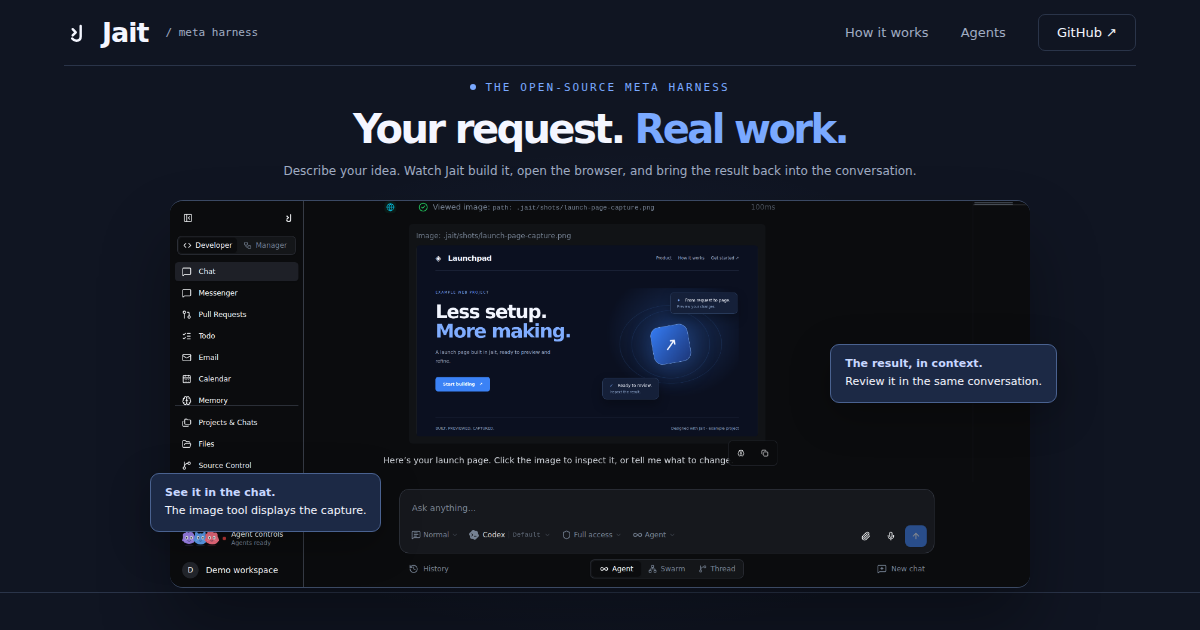
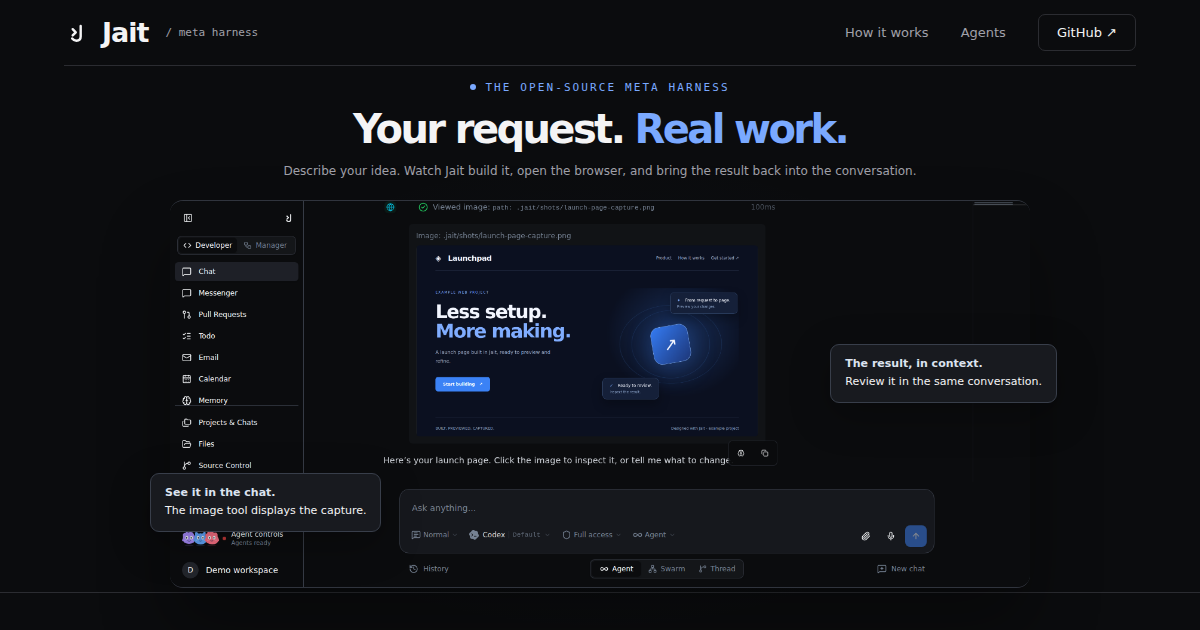
Use charcoal palette and add playful agent cameos

diff --git a/assets/agent-cameos.js b/assets/agent-cameos.js
@@ -1,0 +1,152 @@
+(() => {
+  'use strict';
+  // Avatar geometry and colors match Jait's AgentAvatar component.
+  const colors = ['#a78bfa', '#60a5fa', '#fb7185', '#2dd4bf', '#fbbf24', '#86efac', '#fb923c', '#e879f9', '#38bdf8', '#c4b5fd'];
+  const bodies = [
+    'M18 42 Q12 20 32 20 Q35 8 45 19 Q68 9 76 31 Q89 51 73 72 Q49 85 26 72 Q13 63 18 42Z',
+    'M22 30 Q20 12 32 17 L41 25 Q50 21 59 25 L69 15 Q81 12 76 33 Q90 68 69 77 Q48 86 28 75 Q10 64 22 30Z',
+    'M19 43 Q10 27 26 23 Q26 9 40 17 Q51 6 61 20 Q83 15 80 39 Q94 58 76 75 Q51 87 27 74 Q9 62 19 43Z',
+    'M17 51 Q15 28 33 24 Q45 10 59 23 Q84 23 82 51 Q82 80 50 81 Q18 81 17 51Z',
+    'M22 35 L25 15 Q37 15 40 28 Q49 24 58 28 Q62 13 74 16 L77 38 Q86 66 68 77 Q47 86 29 75 Q14 61 22 35Z',
+  ];
+  const motion = matchMedia('(prefers-reduced-motion: reduce)');
+  const layer = document.createElement('div');
+  layer.className = 'cameo-layer'; layer.setAttribute('aria-hidden', 'true'); layer.setAttribute('inert', '');
+  document.body.append(layer);
+  const spots = [
+    { selector: '.github-link', size: 42, align: .48 },
+    { selector: '[data-step="3"]', size: 55, side: true },
+    { selector: '.providers', size: 56, align: .82 },
+    { selector: '.workspace-section', size: 60, align: .78 },
+    { selector: '.install', size: 54, align: .80 },
+    { selector: '.footer', size: 48, align: .72 },
+  ];
+  const random = (min, max) => min + Math.random() * (max - min);
+  let active = null, timer = null, lastSpot = null, lastColor = -1, first = true;
+  let pointer = null, dirty = false;
+  let paused = false;
+  try { paused = localStorage.getItem('jait-cameos-paused') === 'true'; } catch {}
+  const toggle = document.createElement('button'); toggle.className = 'cameo-toggle'; toggle.type = 'button';
+  function updateToggle() { toggle.hidden = motion.matches; toggle.textContent = paused ? 'Resume cameos' : 'Pause cameos'; toggle.setAttribute('aria-label', paused ? 'Resume decorative agent animations' : 'Pause decorative agent animations'); }
+  document.querySelector('.footer-links').append(toggle); updateToggle();
+  const unavailable = () => paused || motion.matches || document.hidden || document.getElementById('image-dialog')?.open;
+  function sprite(index) {
+    const color = colors[index], dx = index % 2 ? 1 : -1;
+    return `<svg class="agent-creature" viewBox="0 0 100 100" aria-hidden="true"><ellipse cx="50" cy="87" rx="24" ry="4" fill="${color}" opacity=".14"/><g class="agent-creature-body"><path d="${bodies[index % bodies.length]}" fill="${color}"/><path d="M25 57 Q18 51 17 60 M75 57 Q83 51 84 60" fill="none" stroke="${color}" stroke-width="8" stroke-linecap="round"/><ellipse cx="29" cy="59" rx="5" ry="3" fill="#fff" opacity=".25"/><ellipse cx="71" cy="59" rx="5" ry="3" fill="#fff" opacity=".25"/><g class="agent-creature-eyes"><ellipse cx="38" cy="46" rx="7" ry="9" fill="#fff"/><ellipse cx="62" cy="46" rx="7" ry="9" fill="#fff"/><g class="agent-creature-pupils"><ellipse cx="${38 + dx}" cy="47" rx="3" ry="4.5" fill="#243047"/><ellipse cx="${62 + dx}" cy="47" rx="3" ry="4.5" fill="#243047"/></g></g><path d="${index % 3 === 0 ? 'M43 62 Q50 69 57 62' : index % 3 === 1 ? 'M46 63 Q50 66 54 63' : 'M44 62 Q50 66 56 62'}" fill="none" stroke="#243047" stroke-width="2.5" stroke-linecap="round"/>${index >= 5 ? '<path d="M44 25 Q49 17 55 25" fill="none" stroke="#fff" stroke-width="3" stroke-linecap="round" opacity=".5"/>' : ''}</g></svg>`;
+  }
+  function measure(spot) {
+    const anchor = document.querySelector(spot.selector);
+    if (!anchor) return null;
+    const rect = anchor.getBoundingClientRect();
+    if (!rect.width || rect.top < 12 || rect.top > innerHeight - 35 || rect.bottom < 0) return null;
+    const size = innerWidth <= 640 ? Math.min(spot.size, 46) : spot.size;
+    if (spot.side) {
+      if (rect.right + size > innerWidth - 12) return null;
+      return { spot, anchor, size, width: size, height: size, x: rect.right, y: rect.top + rect.height / 2 - size / 2 };
+    }
+    const height = Math.min(size, rect.top - 3);
+    const x = Math.max(8, Math.min(innerWidth - size - 8, rect.left + rect.width * spot.align - size / 2));
+    return { spot, anchor, size, width: size, height, x, y: rect.top - height };
+  }
+  function position(item, measured) {
+    item.node.style.width = measured.width + 'px'; item.node.style.height = measured.height + 'px';
+    item.node.style.left = measured.x + scrollX + 'px'; item.node.style.top = measured.y + scrollY + 'px';
+    item.geometry = measured;
+  }
+  function schedule(delay = random(6500, 14500)) {
+    clearTimeout(timer); timer = null;
+    if (!unavailable()) timer = setTimeout(appear, delay);
+  }
+  function dismiss(reschedule = true) {
+    if (active) {
+      clearTimeout(active.blinkTimer); clearTimeout(active.reactionTimer); cancelAnimationFrame(active.raf);
+      active.animations.forEach(animation => animation.cancel()); active.node.remove(); active = null;
+    }
+    if (reschedule) schedule();
+  }
+  function blink(item, double = false) {
+    if (active !== item) return;
+    const animation = item.eyes.animate([
+      { transform: 'scaleY(1)', offset: 0 }, { transform: 'scaleY(.08)', offset: .42 },
+      { transform: 'scaleY(.08)', offset: .55 }, { transform: 'scaleY(1)', offset: 1 },
+    ], { duration: double ? 170 : 220, easing: 'ease-in-out' });
+    item.animations.push(animation);
+  }
+  function nextBlink(item) {
+    item.blinkTimer = setTimeout(() => {
+      if (active !== item) return;
+      blink(item); nextBlink(item);
+    }, random(1800, 3400));
+  }
+  function watch(item) {
+    if (active !== item) return;
+    if (unavailable()) { dismiss(); return; }
+    if (dirty) {
+      const current = measure(item.spot); dirty = false;
+      if (!current) { dismiss(); return; }
+      // A large layout change gets a fresh entrance rather than a jumping face.
+      if (Math.abs(current.height - item.geometry.height) > 2) { dismiss(); return; }
+      position(item, current);
+    }
+    const now = performance.now();
+    if (now > item.nextLook) {
+      item.look = { x: random(-2.3, 2.3), y: random(-1, 1) }; item.nextLook = now + random(900, 1900);
+    }
+    let look = item.look;
+    if (pointer && now - pointer.time < 2500) {
+      const { x, y, size } = item.geometry;
+      const dx = pointer.x - (x + size / 2), dy = pointer.y - (y + item.geometry.height / 2);
+      look = { x: Math.max(-2.4, Math.min(2.4, dx / 65)), y: Math.max(-1.4, Math.min(1.4, dy / 100)) };
+      if (!item.caught && Math.hypot(dx, dy) < size * 1.6) {
+        item.caught = true; item.node.classList.add('is-caught'); blink(item, true);
+        item.reactionTimer = setTimeout(() => { if (active === item) { item.node.classList.remove('is-caught'); blink(item); } }, 1500);
+      }
+    }
+    item.gaze.x += (look.x - item.gaze.x) * .09; item.gaze.y += (look.y - item.gaze.y) * .09;
+    item.pupils.setAttribute('transform', `translate(${item.gaze.x.toFixed(2)} ${item.gaze.y.toFixed(2)})`);
+    item.raf = requestAnimationFrame(() => watch(item));
+  }
+  function appear() {
+    if (unavailable()) { schedule(); return; }
+    let choices = spots.map(measure).filter(Boolean);
+    if (choices.length > 1) choices = choices.filter(candidate => candidate.spot.selector !== lastSpot);
+    if (!choices.length) { schedule(2500); return; }
+    const geometry = first && choices.some(candidate => candidate.spot.selector === '.github-link')
+      ? choices.find(candidate => candidate.spot.selector === '.github-link') : choices[Math.floor(random(0, choices.length))];
+    first = false; lastSpot = geometry.spot.selector;
+    let color = Math.floor(random(0, colors.length)); if (color === lastColor) color = (color + 1) % colors.length; lastColor = color;
+    const node = document.createElement('span'); node.className = 'agent-cameo' + (geometry.spot.side ? ' is-side' : '');
+    node.dataset.spot = geometry.spot.selector; node.dataset.agent = String(color); node.setAttribute('aria-hidden', 'true');
+    node.innerHTML = `<span class="cameo-reaction"><span class="cameo-pose">${sprite(color)}</span></span>`;
+    layer.append(node);
+    const item = { node, spot: geometry.spot, geometry, animations: [], eyes: node.querySelector('.agent-creature-eyes'), pupils: node.querySelector('.agent-creature-pupils'), gaze: { x: 0, y: 0 }, look: { x: -1.5, y: 0 }, nextLook: performance.now() + 1200 };
+    active = item; position(item, geometry);
+    const side = geometry.spot.side, size = geometry.size, height = geometry.height;
+    const pose = value => side ? `translateX(${-value}px)` : `translateY(${value}px)`;
+    const hidden = side ? size + 8 : height + 8;
+    const shallow = side ? size * .55 : height - size * .55;
+    const peek = side ? size * .25 : height - size * .72;
+    const duck = side ? size * .82 : height - size * .28;
+    const animation = node.querySelector('.cameo-pose').animate([
+      { transform: pose(hidden), offset: 0 }, { transform: pose(shallow), offset: .11 },
+      { transform: pose(shallow), offset: .23 }, { transform: pose(duck), offset: .30 },
+      { transform: pose(peek), offset: .39 }, { transform: pose(peek), offset: .69 },
+      { transform: pose(shallow), offset: .78 }, { transform: pose(shallow), offset: .87 },
+      { transform: pose(hidden), offset: 1 },
+    ], { duration: random(7200, 9000), easing: 'cubic-bezier(.35,0,.25,1)', fill: 'both' });
+    item.animations.push(animation);
+    item.animations.push(node.querySelector('.agent-creature-body').animate([
+      { transform: 'rotate(-2deg) translateY(0)' }, { transform: 'rotate(2deg) translateY(-1px)' }, { transform: 'rotate(-2deg) translateY(0)' },
+    ], { duration: 2800, iterations: Infinity, easing: 'ease-in-out' }));
+    animation.onfinish = () => { if (active === item) dismiss(); };
+    nextBlink(item); item.raf = requestAnimationFrame(() => watch(item));
+  }
+  window.addEventListener('pointermove', event => { if (event.pointerType === 'mouse') pointer = { x: event.clientX, y: event.clientY, time: performance.now() }; }, { passive: true });
+  window.addEventListener('scroll', () => { dirty = true; }, { passive: true });
+  window.addEventListener('resize', () => { dirty = true; });
+  document.addEventListener('visibilitychange', () => { clearTimeout(timer); dismiss(false); if (!unavailable()) schedule(random(2000, 4000)); });
+  toggle.addEventListener('click', () => { paused = !paused; try { localStorage.setItem('jait-cameos-paused', String(paused)); } catch {} clearTimeout(timer); dismiss(false); updateToggle(); if (!unavailable()) schedule(random(1200, 2400)); });
+  document.getElementById('image-dialog').addEventListener('close', () => { if (!active && !unavailable()) schedule(random(1800, 3200)); });
+  motion.addEventListener('change', () => { updateToggle(); clearTimeout(timer); dismiss(false); if (!unavailable()) schedule(); });
+  schedule(random(1600, 2800));
+})();

diff --git a/assets/site.css b/assets/site.css
@@ -1,4 +1,4 @@
-:root{color-scheme:dark;--bg:#101522;--fg:#f4f6ff;--muted:#a1adc4;--accent:#7aa9ff;--line:#2a3449;--panel:#1c2945;font-family:Inter,ui-sans-serif,system-ui,-apple-system,BlinkMacSystemFont,"Segoe UI",sans-serif;font-synthesis:none;-webkit-font-smoothing:antialiased}
+:root{color-scheme:dark;--bg:#0b0c0e;--fg:#f4f4f5;--muted:#a1a1aa;--accent:#7aa9ff;--line:#2b2c31;--panel:#181a1f;font-family:Inter,ui-sans-serif,system-ui,-apple-system,BlinkMacSystemFont,"Segoe UI",sans-serif;font-synthesis:none;-webkit-font-smoothing:antialiased}
 *{box-sizing:border-box}html{scroll-behavior:smooth;scroll-padding-top:28px}body{margin:0;background:var(--bg);color:var(--fg)}button,a{-webkit-tap-highlight-color:transparent}button{font:inherit;color:inherit}button,a{touch-action:manipulation}a{color:inherit;text-decoration:none}button{cursor:pointer}button:disabled{cursor:default}p{line-height:1.75;text-wrap:pretty}h1,h2,h3,p{margin:0}h1,h2,h3{text-wrap:balance}button:focus-visible,a:focus-visible{outline:2px solid var(--accent);outline-offset:5px}.content{width:calc(100% - 128px);max-width:1152px;margin-inline:auto}.accent{color:var(--accent)}.skip-link{position:fixed;top:8px;left:8px;z-index:20;transform:translateY(-200%);padding:12px;background:var(--fg);color:var(--bg);border-radius:6px}.skip-link:focus{transform:none}.sr-only{position:absolute;width:1px;height:1px;padding:0;margin:-1px;overflow:hidden;clip:rect(0,0,0,0);white-space:nowrap;border:0}
 .nav{height:90px;display:flex;align-items:center;justify-content:space-between;border-bottom:1px solid var(--line);gap:24px}.brand{display:flex;align-items:center;gap:10px;font-size:27px;font-weight:650;letter-spacing:-1px;flex-shrink:0}.brand svg{width:28px;height:28px}.brand-note{font:11px ui-monospace,monospace;letter-spacing:0;color:var(--muted);margin-left:7px}.nav-links{display:flex;align-items:center;gap:32px;font-size:13px;color:var(--muted)}.nav-links a:hover,.footer a:hover,.text-link:hover{color:var(--accent)}.github-link{border:1px solid var(--line);padding:10px 18px;border-radius:7px;color:var(--fg)}
 .hero{padding-top:25px}.section-intro{text-align:center;padding-inline:24px;margin-inline:auto;max-width:1140px}.eyebrow{font:11px/1.5 ui-monospace,monospace;letter-spacing:2.1px;color:var(--accent);text-transform:uppercase}.eyebrow:before{content:"";width:6px;height:6px;background:currentColor;display:inline-block;margin:0 9px 1px 0;border-radius:50%}h1,.agents-section h2{font-size:50px;letter-spacing:-2.6px;line-height:1.12;font-weight:600;margin:15px 0 14px}h1>span,.agents-section h2>span{display:inline-block;white-space:nowrap}.description{font-size:14px;line-height:1.8;color:var(--muted);max-width:800px;margin-inline:auto}.tabs{display:flex;gap:10px;justify-content:center;flex-wrap:wrap;margin:20px auto 0;padding:0 20px}.tab{border:1px solid #344056;background:#172034;color:#a4b1cb;padding:9px 17px;border-radius:25px;font-size:11px;line-height:1.4;min-height:36px;transition:background .2s,border-color .2s,color .2s}.tab .step-number{font-family:ui-monospace,monospace;margin-right:9px;font-size:10px}.tab.active{border-color:var(--accent);color:#ecf1ff;background:#263455}.tab:hover{border-color:var(--accent)}.agent-tabs .tab{display:flex;gap:12px;align-items:center;justify-content:center}
@@ -10,3 +10,13 @@
 @media(max-width:900px){.brand-note{display:none}.nav-links{gap:22px}.section-intro .description{max-width:620px}.providers{justify-content:center;gap:18px}.providers ul{gap:20px}.agent-details{gap:24px}.workspace-section{gap:32px;grid-template-columns:1fr}.workspace-section h2{font-size:35px}.workspace-copy .lead{font-size:18px}.start-section{grid-template-columns:1fr;gap:32px}.start-section .description{max-width:none}}
 @media(max-width:640px){.content{width:calc(100% - 40px)}.nav{height:76px;gap:12px}.brand{font-size:25px;gap:6px}.brand svg{width:25px;height:25px}.nav-links{gap:17px;font-size:12px}.nav-links a:first-child{display:none}.github-link{padding:8px 12px}.hero{padding-top:34px}.section-intro{padding-inline:20px}.eyebrow{font-size:9px;letter-spacing:1.6px}h1{font-size:clamp(36px,10.4vw,50px);letter-spacing:-1.8px;margin:17px 0 16px;line-height:1.1}h1>span,.agents-section h2>span{display:block}.description{font-size:14px;line-height:1.8;max-width:370px}.tabs{display:grid;grid-template-columns:1fr 1fr;gap:8px;padding:0;width:calc(100% - 40px);margin-top:23px}.tab{min-height:44px;padding:10px 6px;font-size:11px;text-align:center;border-radius:7px}.tab .step-number{margin-right:5px;font-size:9px}.demo{width:calc(100% - 40px);margin-top:18px;max-width:390px}.media-window{aspect-ratio:390/720;border-radius:11px;box-shadow:0 18px 45px #0004}.agent-demo .media-window{aspect-ratio:390/650}.demo.in-view.is-playing .media-window{animation:none}.demo-pointer{display:none}.annotations{display:grid;grid-template-columns:1fr;gap:8px;margin-top:12px}.annotation,.agent-demo .annotation-left{position:static;max-width:none;box-shadow:none;padding:12px 14px;border-color:#354b70;font-size:12px;line-height:1.65;animation:none!important;transform:none!important}.annotation strong{font-size:12px;line-height:1.5;margin-bottom:4px}.agent-demo .annotation-left{display:flex}.agent-avatar{width:27px;height:27px;margin-bottom:0}.media-meta{font-size:9px;gap:8px;margin-top:9px;letter-spacing:0;align-items:center}.playback{font-size:10px;padding:8px 0 8px 6px;min-height:44px}.providers{margin-top:31px;padding:25px 0;gap:18px;flex-direction:column}.providers ul{display:grid;grid-template-columns:auto auto;gap:16px 26px;font-size:12px;text-align:center}.small-label{font-size:9px}.agents-section{padding-top:55px}.agents-section h2{font-size:clamp(32px,9vw,46px);letter-spacing:-1.4px;margin:17px 0 16px;line-height:1.13}.agent-tabs{max-width:390px}.agent-details{grid-template-columns:1fr;gap:25px;padding-top:35px;padding-bottom:55px}.agent-details>div{padding-left:15px;border-left:1px solid #4a6290}.agent-details h3{font-size:16px;margin-bottom:6px}.agent-details p{max-width:360px;font-size:14px}.workspace-section{grid-template-columns:1fr;padding:55px 0;gap:25px}.workspace-section h2{font-size:clamp(24px,7vw,30px);letter-spacing:-1px;margin-top:16px}.workspace-copy p{font-size:14px}.workspace-copy .lead{font-size:18px;max-width:380px}.start-section{padding:55px 0;gap:28px}.start-section h2{font-size:31px;letter-spacing:-1.2px;max-width:340px;margin-top:16px}.start-section .description{font-size:14px}.install-header{padding:12px 14px}.install pre{font-size:clamp(10px,3.05vw,13px);padding:18px 14px;line-height:2.3}.install>p{padding:0 14px 15px;font-size:11px}.footer{display:block;padding:26px 0 32px}.footer>div:first-child{gap:12px}.footer-links{margin-top:22px;gap:24px}.dialog-toolbar{padding:12px;font-size:11px}.image-dialog{max-width:calc(100vw - 16px);max-height:calc(100dvh - 16px)}.dialog-image-wrap img{width:auto;max-width:none;min-width:100%;max-height:calc(100dvh - 150px)}.image-dialog>p{font-size:9px;padding-inline:12px}}
 @media(prefers-reduced-motion:reduce){html{scroll-behavior:auto}.demo-pointer{display:none}*,*:before,*:after{animation:none!important;transition:none!important}}
+
+/* Neutral surfaces keep the blue accent close to the app. */
+.tab{background:#16171b;border-color:#303238;color:#a1a1aa}.tab.active{background:#19273e;border-color:var(--accent);color:#edf3ff}.annotation{background:var(--panel);border-color:#383e4a}.annotation strong{color:#dce3ef}.media-window{background:#0a0c0e;border-color:#30343d}.demo:before{opacity:.35}.install{background:#101114}.text-link{border-color:#3d485a}.image-dialog{background:#0b0c0e;border-color:#30343d}.dialog-image-wrap{background:#0b0c0e}.agent-details>div{border-color:#3d485a}
+/* Decorative pockets end exactly at their button or section edge. */
+.cameo-layer{position:absolute;inset:0 0 auto;height:0;z-index:5;pointer-events:none;user-select:none}.agent-cameo{position:absolute;overflow:hidden;pointer-events:none;contain:layout paint;opacity:1}.cameo-reaction,.cameo-pose{display:block;width:100%;height:100%;pointer-events:none}.cameo-reaction{transition:transform .22s cubic-bezier(.3,0,.7,1)}.agent-cameo.is-caught .cameo-reaction{transform:translateY(24px)}.agent-cameo.is-side.is-caught .cameo-reaction{transform:translateX(-24px)}.agent-cameo svg{display:block;width:100%;height:auto;overflow:visible}.agent-cameo .agent-creature-body{transform-origin:50px 80px}.agent-cameo .agent-creature-eyes{transform-box:fill-box;transform-origin:center}.agent-cameo .agent-creature-pupils{will-change:transform}
+@media(prefers-reduced-motion:reduce){.cameo-layer{display:none}.cameo-reaction{transition:none}}
+
+.cameo-toggle{border:0;background:none;padding:0;color:var(--muted);font:inherit;text-align:left;white-space:nowrap}.cameo-toggle:hover{color:var(--accent)}.cameo-toggle[hidden]{display:none}@media(max-width:640px){.footer-links{display:grid;grid-template-columns:repeat(2,max-content);gap:4px 24px}.footer-links a,.cameo-toggle{min-height:44px;display:inline-flex;align-items:center}.cameo-toggle[hidden]{display:none}}
+
+@media(prefers-reduced-motion:reduce){.cameo-toggle{display:none!important}}

diff --git a/index.html b/index.html
@@ -15,19 +15,20 @@
   <meta property="og:url" content="https://jait.dev/">
   <meta property="og:title" content="Jait — Your models. Your tools. Your workspace.">
   <meta property="og:description" content="Bring your AI engines, build with real tools, and work with a team of persistent agents. Open source. Self hosted.">
-  <meta property="og:image" content="https://jait.dev/assets/jait-social.png">
+  <meta property="og:image" content="https://jait.dev/assets/jait-social.png?v=20261016-character">
   <meta property="og:image:width" content="1200">
   <meta property="og:image:height" content="630">
   <meta property="og:image:alt" content="Jait's workspace with an interactive walkthrough of building and previewing a web page">
   <meta name="twitter:card" content="summary_large_image">
   <meta name="twitter:title" content="Jait — Your models. Your tools. Your workspace.">
   <meta name="twitter:description" content="An open-source, self-hosted meta harness. AI engines, real tools, and persistent agents in one workspace.">
-  <meta name="twitter:image" content="https://jait.dev/assets/jait-social.png">
-  <link rel="stylesheet" href="/assets/site.css">
+  <meta name="twitter:image" content="https://jait.dev/assets/jait-social.png?v=20261016-character">
+  <link rel="stylesheet" href="/assets/site.css?v=20261016-character">
   <link rel="preload" href="/assets/walkthrough/desktop-01-engine.webp" as="image" media="(min-width: 641px)">
   <link rel="preload" href="/assets/walkthrough/mobile-01-engine.webp" as="image" media="(max-width: 640px)">
   <script type="application/ld+json">{"@context":"https://schema.org","@type":"SoftwareApplication","name":"Jait","alternateName":"Just Another Intelligent Tool","url":"https://jait.dev/","applicationCategory":"DeveloperApplication","operatingSystem":"Linux, macOS, Windows","description":"An open-source, self-hosted meta harness for AI engines, tools, and persistent agents.","codeRepository":"https://github.com/Widev-e-U/Jait","license":"https://github.com/Widev-e-U/Jait/blob/main/LICENSE","offers":{"@type":"Offer","price":"0","priceCurrency":"USD"}}</script>
   <script src="/assets/site.js" defer></script>
+  <script src="/assets/agent-cameos.js?v=20261016-character" defer></script>
 </head>
 <body>
   <a class="skip-link" href="#main">Skip to content</a>
